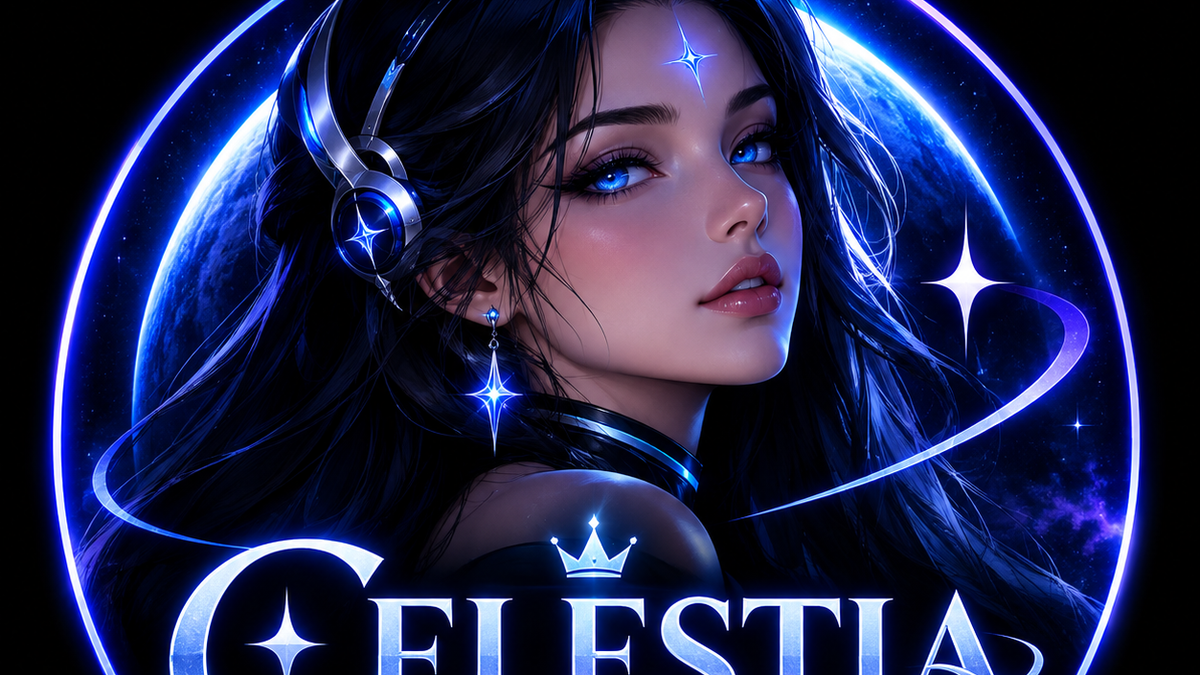
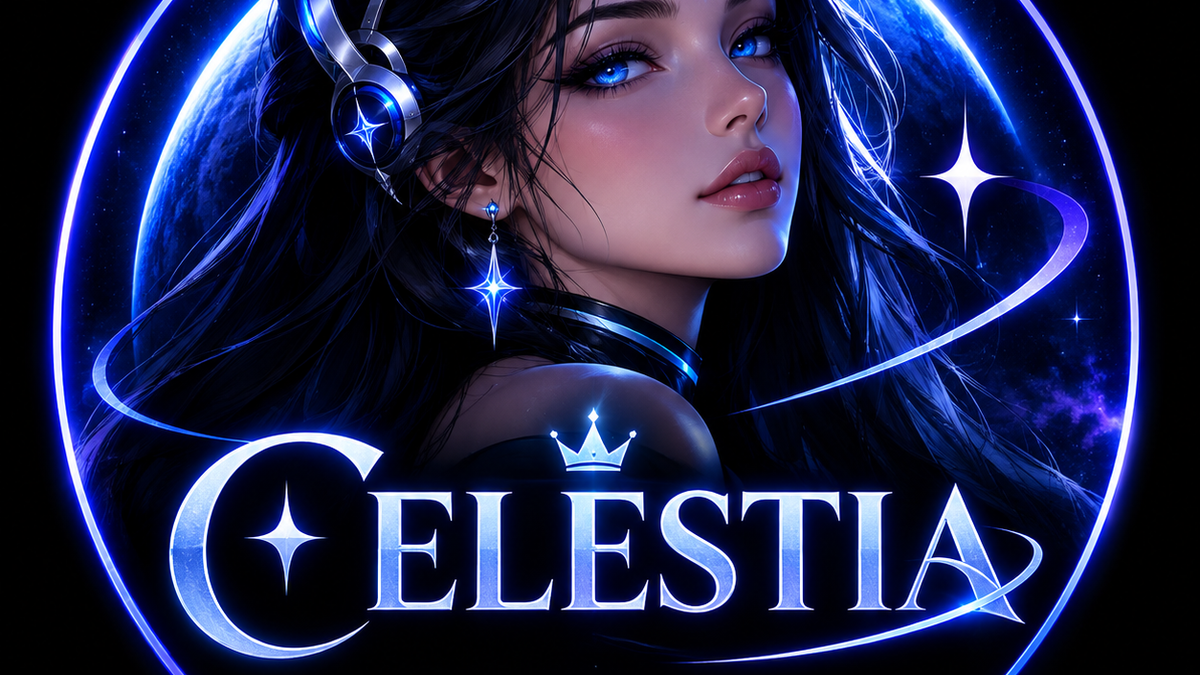
CELESTIA

diff --git a/assets/LOGO-PROMPT.md b/assets/LOGO-PROMPT.md
@@ -1,0 +1,31 @@
+# CELESTIA — Canonical Logo Prompt
+
+Use this exact prompt in any image generator (ChatGPT/DALL-E, Midjourney, Gemini) to produce her official face. Square 1:1 output.
+
+---
+
+Create a premium circular AI bot logo for a futuristic female AI character named "CELESTIA".
+
+**Composition:**
+A perfectly centered, symmetrical circular emblem on a pure deep-black background. Inside the circle is an ethereal, extremely beautiful female android with long flowing black hair, luminous electric-blue eyes, elegant facial features, glossy natural lips, and a sophisticated futuristic appearance. She wears sleek metallic futuristic headphones with glowing blue accents and subtle cybernetic details. Add a small glowing four-point star symbol centered on her forehead and delicate futuristic earrings.
+
+Behind her, create a breathtaking cosmic scene with a glowing blue planet partially visible behind her head and shoulders, surrounded by a subtle starfield, nebula-like blue and violet space, tiny stars, and luminous particles. Add a thin glowing orbital ring sweeping around the character and planet.
+
+**Palette:** elegant blue, cyan, violet, silver, and black. Intense but refined neon lighting, cinematic rim lighting, glossy highlights, realistic skin rendering, detailed hair strands, polished metallic surfaces, high-end futuristic sci-fi aesthetics.
+
+**Typography:**
+At the top/center, a small elegant silver-white crown above the main title. Large luxurious serif lettering: "CELESTIA" — metallic silver-white with subtle blue-violet glow. Integrate a large elegant crescent-moon shape around the beginning of the word, with a bright four-point star inside the crescent. A delicate orbital curve passes around/through the typography.
+
+Under the title: "THE MOST BEAUTIFUL BOT" — clean uppercase sans-serif, generous letter spacing, white/silver, subtle glow. A small four-point star beneath the subtitle with thin horizontal decorative lines from both sides.
+
+**Style:**
+Ultra-premium AI brand identity, futuristic celestial goddess aesthetic, sophisticated cyberpunk luxury — elegant, never aggressive. Photorealistic female android, deep space atmosphere, luminous neon blue/violet accents, glossy metallic typography, cinematic lighting, extremely detailed, high contrast, sharp focus. Square 1:1, readable at small profile-picture size. No clutter, no distorted anatomy, no extra text, no watermarks.
+
+---
+
+## Installation
+Drop the generated file in the project root or Downloads and run the sharp pipeline
+(see git history — commit "Her new face" for the exact center-crop script), which produces:
+- `assets/logo.png` (1024² menu logo)
+- `assets/script.jpg` (menu banner default)
+- `assets/banner.png` (1200×675 wide)

diff --git a/README.md b/README.md
@@ -1,5 +1,5 @@
 <p align="center">
-  <img src="assets/logo.svg" width="420" alt="CELESTIA Logo"/>
+  <img src="assets/logo.png" width="420" alt="CELESTIA Logo"/>
 </p>
 
 <h1 align="center">✨ CELESTIA ✨</h1>
@@ -54,7 +54,7 @@
 
 ### 🖼 Logo
 
-`assets/logo.svg` - 1024×1024, neon gradient `#00f5ff → #7c4dff → #ff2e93`, geometric wolf, heavenly glow. Use for profile pic, banner, README.
+`assets/logo.png` - 1024×1024 official CELESTIA face (celestial goddess emblem, blue/cyan/violet/silver on black). `assets/banner.png` (1200×675 wide) and `assets/script.jpg` (menu banner) are rendered from the same art. Source: `celestia-logo.png`. Canonical prompt: `assets/LOGO-PROMPT.md`. Use for profile pic, banner, README.
 
 ---
 
@@ -62,7 +62,7 @@
 
 ```
 CELESTIA/
-├── assets/logo.svg         # heavenly logo (1024×1024)
+├── assets/logo.png         # official face (1024×1024, from celestia-logo.png)
 ├── index.js                # CELESTIA main (Baileys, health server)
 ├── commands/               # 198 files → 414 aliases
 │   ├── spam.js             # .spam 10 hello (hardened)
